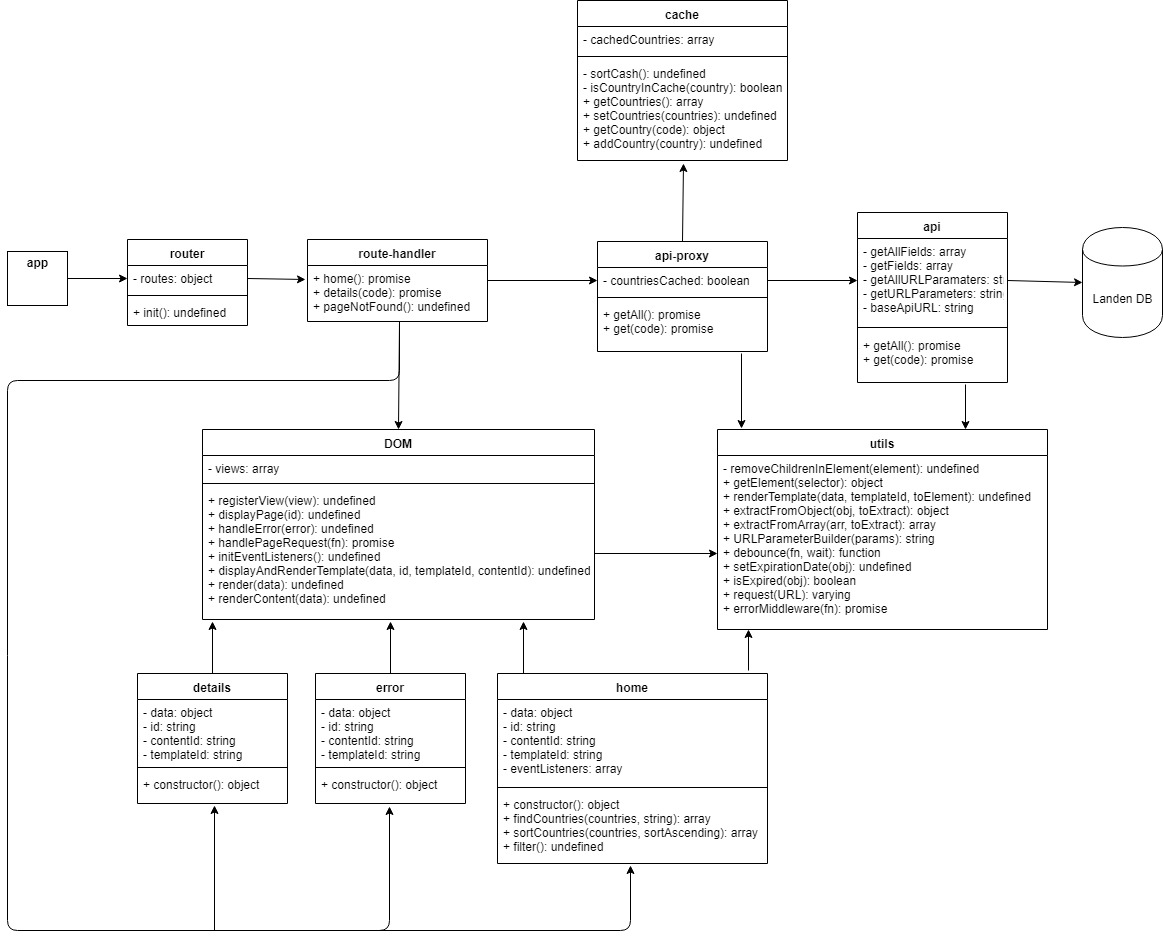
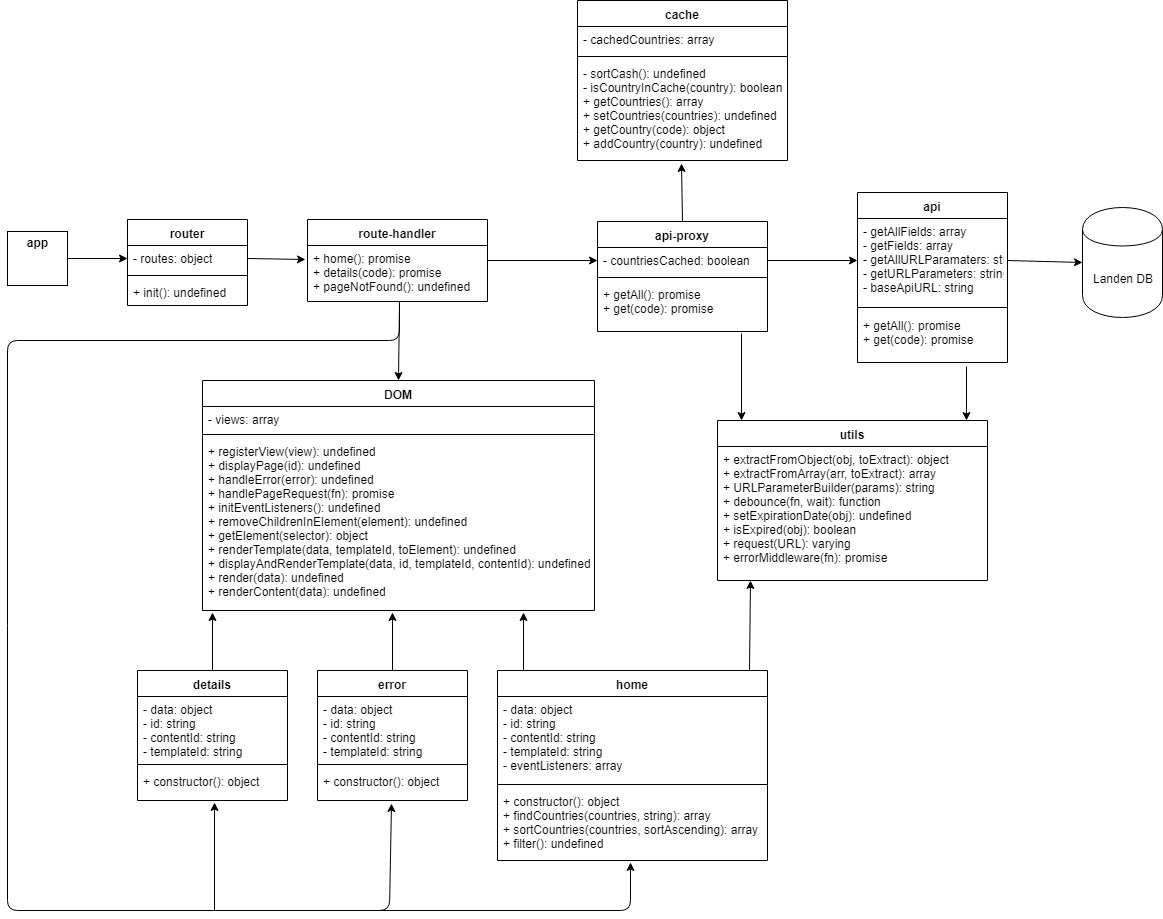
changed diagram and code

diff --git a/week3/public/js/modules/pages/DOM.js b/week3/public/js/modules/pages/DOM.js
@@ -1,5 +1,3 @@
-import {getElement, renderTemplate} from "../utils.js";
-
 /* Used classes for building and rendering pages because inheritance was needed.
  * Could have used functions for inheritance but classes are cleaner */
 
@@ -12,7 +10,7 @@ class DOM {
 
     static displayPage(id) {
         DOM.views.forEach(view => {
-            const element = getElement(view);
+            const element = DOM.getElement(view);
             id === view ? element.classList.remove('invisible') : element.classList.add('invisible');
         });
     };
@@ -39,7 +37,7 @@ class DOM {
 
     static handlePageRequest(fn) {
         return async (...args) => {
-            const element = getElement('#loader');
+            const element = DOM.getElement('#loader');
             try {
                 element.classList.add('spinner');
                 await fn(...args);
@@ -53,15 +51,33 @@ class DOM {
 
     initEventListeners() {
         if (!this.initialisedListeners && this.eventListeners && this.eventListeners.length > 0) {
-            const pageElement = getElement(this.id);
+            const pageElement = DOM.getElement(this.id);
             this.eventListeners.forEach(eventListener => eventListener(pageElement));
             this.initialisedListeners = true;
         }
     }
 
+    static removeChildrenInElement(element){
+        while (element.firstChild) {
+            element.firstChild.remove();
+        }
+    }
+
+    static getElement(selector){
+        return document.querySelector(selector);
+    }
+
+    static renderTemplate(data, templateId, toElement){
+        const element = DOM.getElement(toElement);
+        const template = DOM.getElement(templateId).innerHTML;
+        const compiledTemplate = Handlebars.compile(template);
+        DOM.removeChildrenInElement(element);
+        element.insertAdjacentHTML('beforeend', compiledTemplate(data));
+    }
+
     static displayAndRenderTemplate(data, id, templateId, contentId) {
         DOM.displayPage(id);
-        renderTemplate(data, templateId, contentId);
+        DOM.renderTemplate(data, templateId, contentId);
     }
 
     render(data) {
@@ -71,7 +87,7 @@ class DOM {
     }
 
     renderContent(data) {
-        renderTemplate(data, this.templateId, this.contentId);
+        DOM.renderTemplate(data, this.templateId, this.contentId);
     }
 }
 

diff --git a/week3/public/js/modules/utils.js b/week3/public/js/modules/utils.js
@@ -1,21 +1,3 @@
-const removeChildrenInElement = element => {
-    while (element.firstChild) {
-        element.firstChild.remove();
-    }
-};
-
-export const getElement = selector => {
-    return document.querySelector(selector);
-};
-
-export const renderTemplate = (data, templateId, toElement) => {
-    const element = getElement(toElement);
-    const template = getElement(templateId).innerHTML;
-    const compiledTemplate = Handlebars.compile(template);
-    removeChildrenInElement(element);
-    element.insertAdjacentHTML('beforeend', compiledTemplate(data));
-};
-
 export const extractFromObject = (obj, toExtract) => {
     return toExtract.reduce((o, key) => ({...o, [key]: obj[key]}), {});
 };
